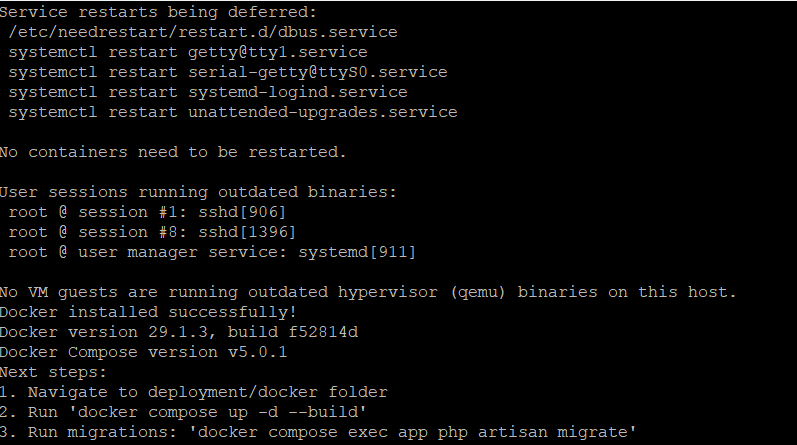
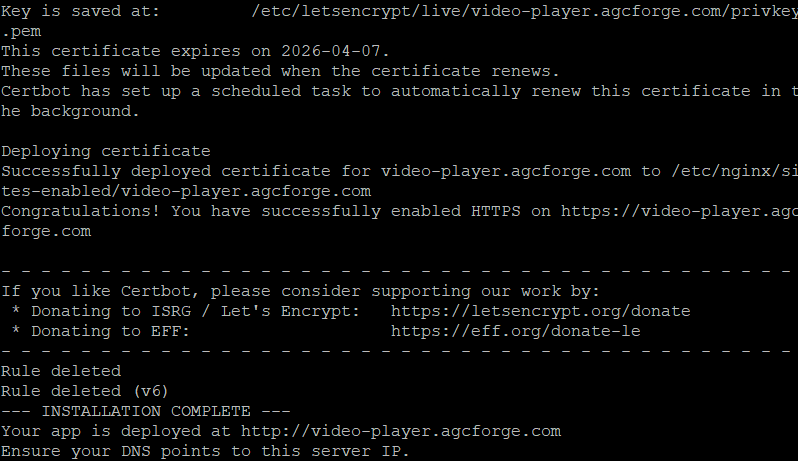
feat(deployment): add SSR setup script and update deployment configs
- Add new setup-ssr.sh script for SSR configuration with PM2
- Update ecosystem.config.json with SSR-specific settings
- Modify setup_ubuntu.sh to include SSR prerequisites and env config
- Update documentation with SSR setup instructions

Changed region(s): [[0.0, 0.6135, 0.9335, 0.9933], [0.0, 0.0, 1.0, 0.2629], [0.0, 0.2921, 1.0, 0.5843]]

diff --git a/resources/js/components/client/documentation/ClientDocInstallNginxManualSection.vue b/resources/js/components/client/documentation/ClientDocInstallNginxManualSection.vue
@@ -1,3 +1,4 @@
+import { watch } from 'vue';
 <template>
   <div class="prose prose-slate dark:prose-invert max-w-none">
     <h1>Native Deployment Guide (Ubuntu + Nginx)</h1>
@@ -110,11 +111,12 @@ cd player</code></pre>
       class="rounded-lg border shadow-sm"
     />
 
-    <h2>Step 4: Database Configuration</h2>
+    <h3>
+      (Optional) If You want to Configure Database Manually or Change the
+      Default Database Credentials
+    </h3>
     <p>
-      The installation script installs the MySQL driver but
-      <strong>does not create the database</strong>. You need to do this
-      manually.
+      If you're not sure about the database configuration, follow these steps:
     </p>
     <ol>
       <li>
@@ -131,7 +133,11 @@ EXIT;</code></pre>
       </li>
       <li>
         <p>Edit the <code>.env</code> file to update database credentials:</p>
-        <pre><code class="language-bash">nano .env</code></pre>
+        <pre><code class="language-bash"># copy .env.example to .env if it doesn't exist
+cp .env.example .env
+
+# edit .env
+nano .env</code></pre>
         <pre><code class="language-ini">DB_CONNECTION=mysql
 DB_HOST=127.0.0.1
 DB_PORT=3306
@@ -141,11 +147,11 @@ DB_PASSWORD=your_secure_password</code></pre>
       </li>
       <li>
         <p>Run migrations manually (if skipped during script execution):</p>
-        <pre><code class="language-bash">php artisan migrate --force</code></pre>
+        <pre><code class="language-bash">php artisan migrate --force && php artisan db:seed --force</code></pre>
       </li>
     </ol>
 
-    <h2>Step 5: Verification & Permissions</h2>
+    <h2>Step 4: Verification & Permissions</h2>
     <p>
       Open your browser and visit your domain. If you see the application,
       congratulations!
@@ -164,7 +170,7 @@ sudo chown -R www-data:www-data /var/www/player
 sudo chmod -R 775 /var/www/player/storage
 sudo chmod -R 775 /var/www/player/bootstrap/cache</code></pre>
 
-    <h2>Step 6: Complete Installation</h2>
+    <h2>Step 5: Complete Installation</h2>
     <p>
       Congratulations! Your Forge Player installation is complete. You can
       access the application at <code>http://yourdomain.com</code> (or your
@@ -177,8 +183,50 @@ admin123
 # Editor login
 editor@editor.com
 editor123
-     </code></pre>
-
+      </code></pre>
+    <h2>Step 6: Setup SSR Rendering (Optional)</h2>
+    <p>To enable server-side rendering (SSR), follow these steps:</p>
+    <ol>
+      <li>
+        <p>Edit <code>ecosystem.config.json</code>:</p>
+        <pre><code class="language-json">
+{
+  "apps": [
+    {
+      "name": "enter your instance name",
+      "script": "artisan",
+      "args": [
+        "inertia:start-ssr"
+      ],
+      "instances": "1",
+      "wait_ready": true,
+      "autorestart": true,
+      "max_restarts": 10,
+      "interpreter": "php",
+      "watch": false,
+      "error_file": "./storage/logs/pm2/err.log",
+      "out_file": "./storage/logs/pm2/out.log",
+      "log_file": "./storage/logs/pm2/combined.log",
+      "merge_logs": true,
+      "time": true,
+      "env": {
+        "APP_ENV": "production",
+        "SSR_PORT": "13714"
+      }
+    }
+  ]
+}
+        </code></pre>
+      </li>
+      <li>
+        <p>Grant execution permission to the script:</p>
+        <pre><code class="language-bash">chmod +x deployment/native/setup-ssr.sh</code></pre>
+      </li>
+      <li>
+        <p>Run the SSR setup script:</p>
+        <pre><code class="language-bash">sudo ./deployment/native/setup-ssr.sh</code></pre>
+      </li>
+    </ol>
     <h2>Troubleshooting</h2>
     <ul>
       <li>
